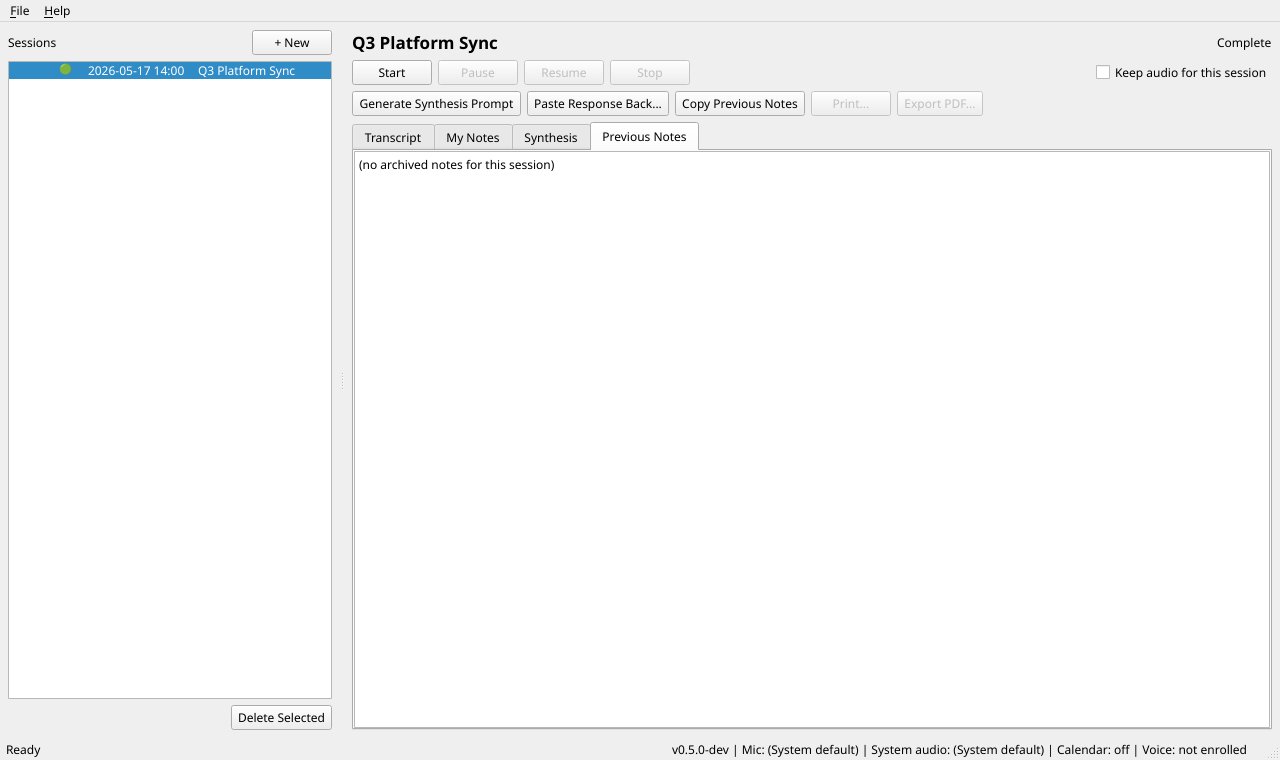
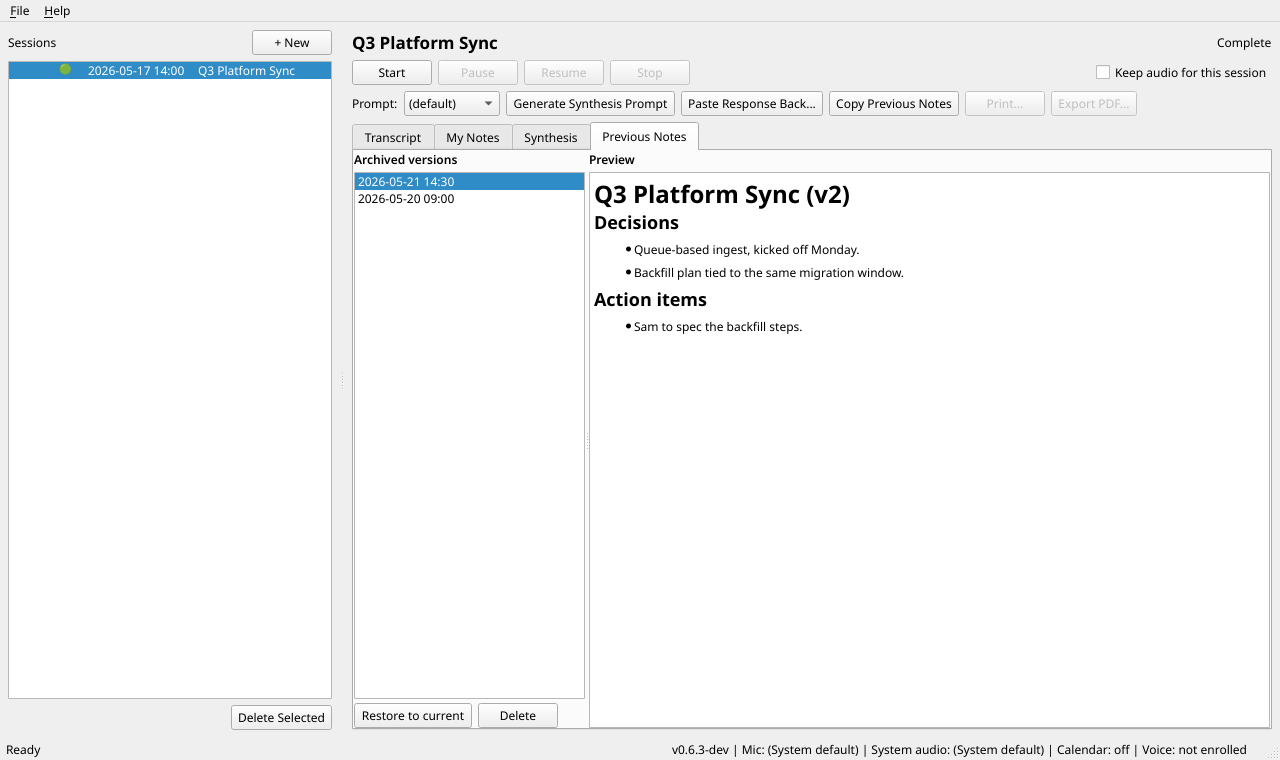
v0.6.3: docs + screenshots + version bump for release
- README synthesis automation section rewritten end-to-end:
  Chrome dependency listed in Requirements, install wizard
  walkthrough with screenshot, clipboard-permission prompts
  documented, Claude Projects config explained, per-session
  prompt picker covered, three-state status-bar values listed,
  trade-offs updated.
- gen_screenshots.py extended: prompt-template picker seeded
  via prompts_mod, _seed_session_on_disk drops two archived
  versions so PreviousNotesWidget has list content, settings
  shot pre-enables automation so the new section shows fully,
  two new shots added (15-main-synthesis-automation +
  16-dialog-automation-install).
- All 14 existing shots regenerated; screenshots 04/05/07
  now reflect v0.6.3 UI (Send button, Previous-Notes redesign,
  Synthesis Automation settings).
- Version bumped 0.6.3-dev -> 0.6.3.
- CLAUDE.md v0.6.3 entry promoted from "current branch" to
  "current".

571 tests passing.

diff --git a/scripts/gen_screenshots.py b/scripts/gen_screenshots.py
@@ -189,11 +189,30 @@ def _grab(widget, name: str, *, autosize: bool = True) -> None:
 
 
 def _seed_session_on_disk() -> Session:
-    """Lay down raw.transcript.md / live_notes.md / notes.md for the demo session."""
+    """Lay down raw.transcript.md / live_notes.md / notes.md for the demo session.
+
+    Also drops a couple of archived synthesis versions so the
+    Previous Notes pane has content to show (the v0.6.3 redesign
+    renders an empty-state pane otherwise, which isn't a useful
+    screenshot)."""
     store = TranscriptStore(SESSION_ID)
     store.transcript_path.write_text(SAMPLE_TRANSCRIPT, encoding="utf-8")
     store.live_notes_path.write_text(SAMPLE_LIVE_NOTES, encoding="utf-8")
     store.notes_path.write_text(SAMPLE_SYNTHESIS, encoding="utf-8")
+    # Seed two archived versions so PreviousNotesWidget has list items.
+    (store.session_dir / "notes-20260520-0900.md").write_text(
+        "# Q3 Platform Sync (v1)\n\n"
+        "## Decisions\n- Migrate the ingest pipeline to a queue-based model.\n\n"
+        "## Action items\n- Alex to draft the queue interface by Friday.\n",
+        encoding="utf-8",
+    )
+    (store.session_dir / "notes-20260521-1430.md").write_text(
+        "# Q3 Platform Sync (v2)\n\n"
+        "## Decisions\n- Queue-based ingest, kicked off Monday.\n"
+        "- Backfill plan tied to the same migration window.\n\n"
+        "## Action items\n- Sam to spec the backfill steps.\n",
+        encoding="utf-8",
+    )
     return Session(
         id=SESSION_ID,
         title=SESSION_TITLE,
@@ -208,28 +227,51 @@ def _seed_session_on_disk() -> Session:
 MAIN_WIN_SIZE = (1280, 760)
 
 
-def _build_main_window() -> MainWindow:
+def _build_main_window(*, automation_enabled: bool = False) -> MainWindow:
     session = _seed_session_on_disk()
     win = MainWindow()
     win.resize(*MAIN_WIN_SIZE)
     win.set_sessions([session])
     win.session_view.set_user_name(USER_NAME)
+    store = TranscriptStore(SESSION_ID)
     win.session_view.set_session(
         session,
         transcript=SAMPLE_TRANSCRIPT,
         notes=SAMPLE_SYNTHESIS,
-        previous_notes_paths=[],
+        previous_notes_paths=store.list_previous_notes(),
         live_notes=SAMPLE_LIVE_NOTES,
     )
+    # Seed the per-session prompt-template picker so the dropdown
+    # has realistic content. MainApp does this at runtime; the
+    # screenshot harness has to do it manually.
+    templates = [t.name for t in prompts_mod.list_templates()]
+    win.session_view.set_prompt_templates(templates)
+    if automation_enabled:
+        win.session_view.set_automation_enabled(True, "claude")
+        # And surface the synthesis status in the status bar.
+        win.set_status_indicators(
+            version=__version__,
+            mic_label="Mic: (System default)",
+            loopback_label="System audio: (System default)",
+            calendar_label="Calendar: off",
+            voice_label="Voice: not enrolled",
+            voice_tooltip="No voice sample has been recorded.",
+            synthesis_label="Synthesis: Chrome running, connected",
+            synthesis_tooltip=(
+                "The Meeting Notetaker extension is connected. "
+                "Send is ready to use."
+            ),
+        )
+    else:
+        win.set_status_indicators(
+            version=__version__,
+            mic_label="Mic: (System default)",
+            loopback_label="System audio: (System default)",
+            calendar_label="Calendar: off",
+            voice_label="Voice: not enrolled",
+            voice_tooltip="No voice sample has been recorded.",
+        )
     win.select_session(SESSION_ID)
-    win.set_status_indicators(
-        version=__version__,
-        mic_label="Mic: (System default)",
-        loopback_label="System audio: (System default)",
-        calendar_label="Calendar: off",
-        voice_label="Voice: not enrolled",
-        voice_tooltip="No voice sample has been recorded.",
-    )
     win.show()
     QApplication.processEvents()
     return win
@@ -303,11 +345,20 @@ def shot_new_session() -> None:
 def shot_settings() -> None:
     cfg = Config()
     cfg.ui.user_name = USER_NAME
+    # Pre-enable synthesis automation so the new section's controls
+    # (target picker, Claude project field, install/uninstall) are
+    # all visible in the screenshot. Default (False) would still
+    # show the group but the placeholder text/help reads better
+    # when the picker has its real selected target shown.
+    cfg.synthesis.automation_enabled = True
+    cfg.synthesis.llm_target = "claude"
     dlg = SettingsDialog(cfg)
-    # The dialog has a scroll area; force-resize to a tall window so the
-    # full content is visible in the screenshot (rather than just the
-    # Transcription group at the top).
-    dlg.resize(640, 1200)
+    # The dialog has a scroll area; force-resize to a tall window
+    # so the full content is visible (rather than just the
+    # Transcription group at the top). v0.6.3 added the synthesis
+    # automation + prompts groups at the bottom -- bumped from 1200
+    # to 1600 to accommodate.
+    dlg.resize(680, 1600)
     dlg.show()
     QApplication.processEvents()
     _grab(dlg, "07-dialog-settings.png", autosize=False)
@@ -513,6 +564,35 @@ def shot_manage_dialog() -> None:
 # ---------------------------------------------------------------------------
 
 
+def shot_main_synthesis_automation_enabled() -> None:
+    """v0.6.3: Send-to-Claude button replaces Generate + Paste when
+    synthesis automation is enabled in Settings. Captures the synthesis
+    tab with the new prompt-template picker visible too."""
+    win = _build_main_window(automation_enabled=True)
+    win.session_view._tabs.setCurrentIndex(2)
+    win.session_view._notes_view.set_preview_mode(True)
+    QApplication.processEvents()
+    _grab(win, "15-main-synthesis-automation.png", autosize=False)
+    win.close()
+
+
+def shot_automation_install_dialog() -> None:
+    """v0.6.3: three-step install wizard launched from Settings when
+    the user toggles synthesis automation on for the first time."""
+    from meeting_notetaker.ui.automation_install_dialog import (
+        AutomationInstallDialog,
+    )
+
+    # Minimal stubs -- the wizard's UI shows the three steps + their
+    # current state without needing the install to actually succeed.
+    dlg = AutomationInstallDialog(do_install=lambda: {}, ping_extension=None)
+    dlg.resize(580, 540)
+    dlg.show()
+    QApplication.processEvents()
+    _grab(dlg, "16-dialog-automation-install.png", autosize=False)
+    dlg.close()
+
+
 def main() -> int:
     app = QApplication.instance() or QApplication(sys.argv)  # noqa: F841
     OUT_DIR.mkdir(parents=True, exist_ok=True)
@@ -530,6 +610,8 @@ def main() -> int:
     shot_label_dialog()
     shot_review_dialog()
     shot_manage_dialog()
+    shot_main_synthesis_automation_enabled()
+    shot_automation_install_dialog()
     print("done.")
     return 0
 

diff --git a/meeting_notetaker/version.py b/meeting_notetaker/version.py
@@ -1,1 +1,1 @@
-__version__ = "0.6.3-dev"
+__version__ = "0.6.3"

diff --git a/README.md b/README.md
@@ -266,29 +266,45 @@ Synthesis Prompt**, paste the prompt into your approved chatbot, then
 
 Starting in v0.6.3, **Settings > Synthesis Automation** can replace the
 Generate + Paste buttons with a single **Send to Claude.ai** button. A
-bundled Chrome extension drives the chat tab for you: it opens a fresh
+bundled Chrome extension drives the chat tab for you: opens the
 conversation, pastes the prompt, watches for the response to stream in,
-and writes the result back to `notes.md`. The Copy button stays
-visible regardless of the toggle.
+clicks Claude's Copy button to read it back as proper markdown, then
+closes the tab. The Copy button stays visible regardless of the toggle.
+
+![Synthesis tab with automation enabled](docs/screenshots/15-main-synthesis-automation.png)
 
 ### What stays the same
 
-- **No API calls.** The extension uses your existing Claude.ai (or, in
-  a future build, M365 Copilot) browser session -- exactly what
+- **No API calls.** The extension uses your existing Claude.ai (or,
+  in a future build, M365 Copilot) browser session -- exactly what
   approved chatbot use looks like today.
 - **The browser remains the intermediary.** The extension types into
-  the chat composer and reads the rendered response; it does not
-  bypass the LLM's web interface.
+  the chat composer and reads Claude's rendered response via its own
+  Copy button; it does not bypass the LLM's web interface.
 - **The proxy interstitial still gates traffic.** If your outbound
   proxy shows a "PROCEED" page on the first AI request, the extension
   detects it, shows a toast, and waits for you to click PROCEED. The
   human-in-the-loop ack stays intact.
+
+### Hard dependencies
+
+- **Google Chrome** (or Chromium / Edge) installed on the same
+  machine as Meeting Notetaker. The extension is Manifest V3 and
+  loads as an unpacked extension; no other browser is supported in
+  v0.6.3.
+- **Windows.** The native-messaging bridge registers itself in HKCU
+  on the user side; macOS and Linux paths are scaffolded but not
+  packaged in this release.
+- **A signed-in Claude.ai account.** First-time use also prompts
+  Chrome for one-time per-site permissions; see below.
 
 ### One-time install (Path 3: guided manual)
 
 Chrome does not permit silent install of unpacked extensions, so the
 install flow is a three-step wizard launched from
 **Settings > Synthesis Automation > Install / Verify...**:
+
+![Install wizard](docs/screenshots/16-dialog-automation-install.png)
 
 1. **Extract the extension files.** Click *Extract and open folder*;
    the app drops the unpacked extension into
@@ -305,18 +321,71 @@ To remove later: **Uninstall bridge** in Settings tears down the
 registry registration; to also remove the extension from Chrome,
 delete it from `chrome://extensions`.
 
+### Chrome permissions you'll be asked to grant
+
+On the first synthesis, Chrome shows **one-time per-site prompts**:
+
+- **"Allow claude.ai to see text and images copied to the clipboard?"**
+  Click **Allow**. The extension uses Claude's own Copy button + the
+  Clipboard API to read the response back as markdown; without this
+  permission, the synthesis fails with a clear "permission needed"
+  dialog (no garbage data lands in the Synthesis tab).
+
+Both prompts persist per Claude.ai origin; you only see them once.
+
+### Optional: route into a Claude project
+
+Synthesis output piles up in your default Claude.ai chat list by
+default. To send everything into a named **Claude project** instead
+(e.g. a "Meeting Notes" project), paste the project's UUID into
+**Settings > Synthesis Automation > Claude project ID**. Every Send
+then opens `https://claude.ai/project/<id>` rather than `/new`.
+
+The project ID is the UUID portion of a Claude project URL --
+something like `019e5077-c745-7541-b2c8-08caeb0f3051`. Leave the
+field blank to disable.
+
+### Per-session prompt template
+
+The synthesis tab now has a **Prompt** dropdown that picks which
+template to use for that session. Selection persists across app
+restarts. Each meeting can use a different template (e.g.
+`one-on-one` vs `standup`) without changing global settings; both
+the automation Send flow and the manual Generate dialog honor the
+selection. Edit or add templates via *Settings > Open Prompts
+Folder*.
+
+### Status bar connection state
+
+The status bar shows one of three values when synthesis automation
+is enabled in Settings:
+
+- **`Synthesis: Chrome not running`** -- Send is enabled and clicking
+  it launches Chrome at the synthesis URL automatically.
+- **`Synthesis: Chrome running, connected`** -- Send is ready.
+- **`Synthesis: Chrome running, disconnected`** -- Send is **disabled**.
+  The extension's service worker has been killed by Chrome's MV3
+  idle timer; it auto-reconnects within ~60 seconds via the
+  combined app-side ping + extension chrome.alarms retry. If it
+  persists, open the extension popup and click **Reconnect to app**.
+
 ### Trade-offs
 
 - **Brittle to LLM UI changes.** The content script targets Claude.ai
-  selectors as of late 2026. If Anthropic restructures the chat DOM,
-  the extension may fail loudly; falling back is one toggle in
-  Settings.
+  selectors as of late 2026. The detector uses Claude's stop-button
+  toggle (resilient to class-name churn) and Claude's own Copy
+  button (works against Claude's serialization, not ours), but
+  significant DOM restructuring would still require a patch.
 - **Claude.ai only in v0.6.3.** The settings dropdown lists Microsoft
-  365 Copilot but its content script is a stub that surfaces "not yet
-  implemented"; the plumbing is in place so the next release can drop
-  in the Copilot adapter without an architectural change.
-- **Browser must be Chrome.** The bridge is also registered for Edge
-  in HKCU, but the extension hasn't been smoke-tested there.
+  365 Copilot but its content script is a stub that surfaces "not
+  yet implemented"; the plumbing is in place so the next release
+  can drop in the Copilot adapter without an architectural change.
+- **Chrome only.** The bridge is also registered for Edge in HKCU
+  but the extension hasn't been smoke-tested there.
+- **Cold-start adds a few seconds.** If Chrome isn't running when you
+  click Send, the app launches it and waits up to 60 seconds for
+  the extension to connect before proceeding. Warm Chrome is
+  instant.
 
 ## Why this exists
 
@@ -342,6 +411,11 @@ a human hand-off.
 - A working microphone and a default speaker / output device.
 - ~500 MB of disk for the default `small.en` Whisper model. The model
   downloads on first run.
+- **For optional synthesis automation (v0.6.3+):** Google Chrome on
+  the same machine. The automation feature opens a Claude.ai tab in
+  your existing Chrome session and reads the response back via
+  Chrome's clipboard API; no other browser is supported. See
+  [Synthesis automation (optional)](#synthesis-automation-optional).
 
 The dev environment installs PyAudio's PortAudio binding. On Windows the
 pip wheel ships PortAudio binaries; no extra system install is needed.

diff --git a/CLAUDE.md b/CLAUDE.md
@@ -241,7 +241,7 @@ correctness assertions.
 - Hash-gated bundled-prompt upgrade with line-ending normalization so a
   CRLF Windows checkout upgrades cleanly.
 
-### v0.6.3 (current branch)
+### v0.6.3 (current)
 
 Synthesis automation lands behind a per-install Settings toggle. When
 enabled, the Generate Synthesis Prompt + Paste Response Back buttons
